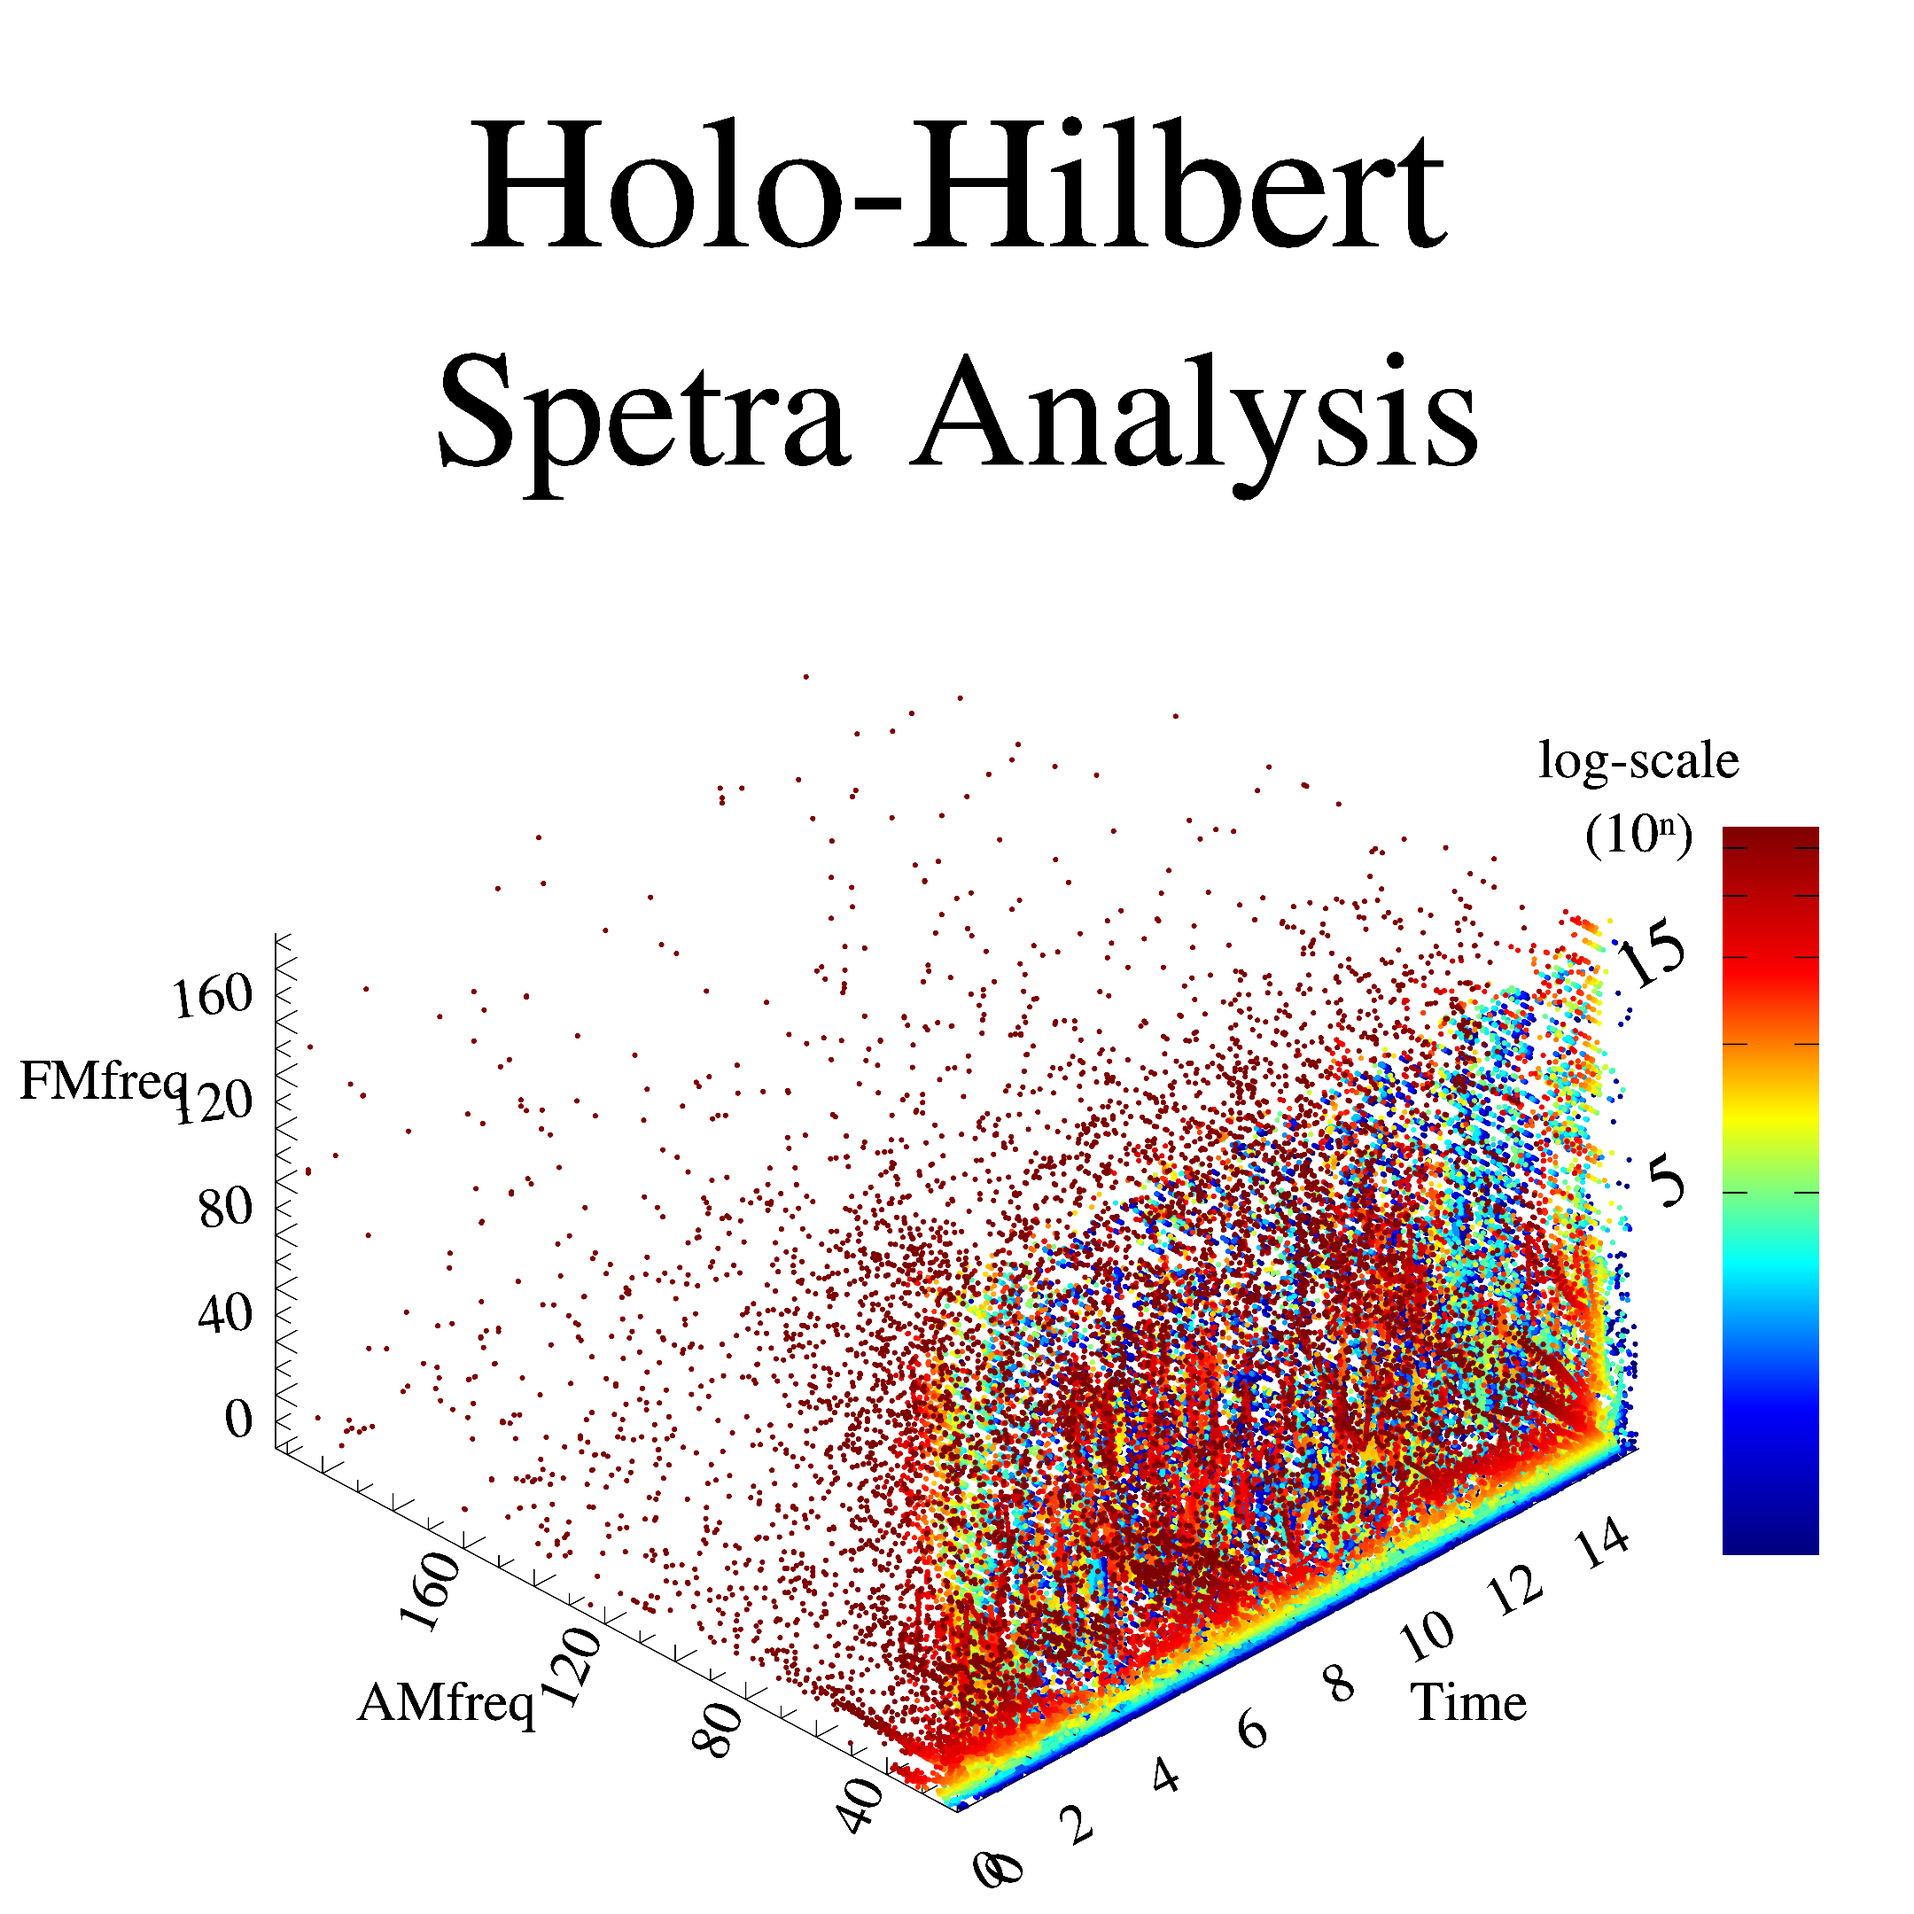
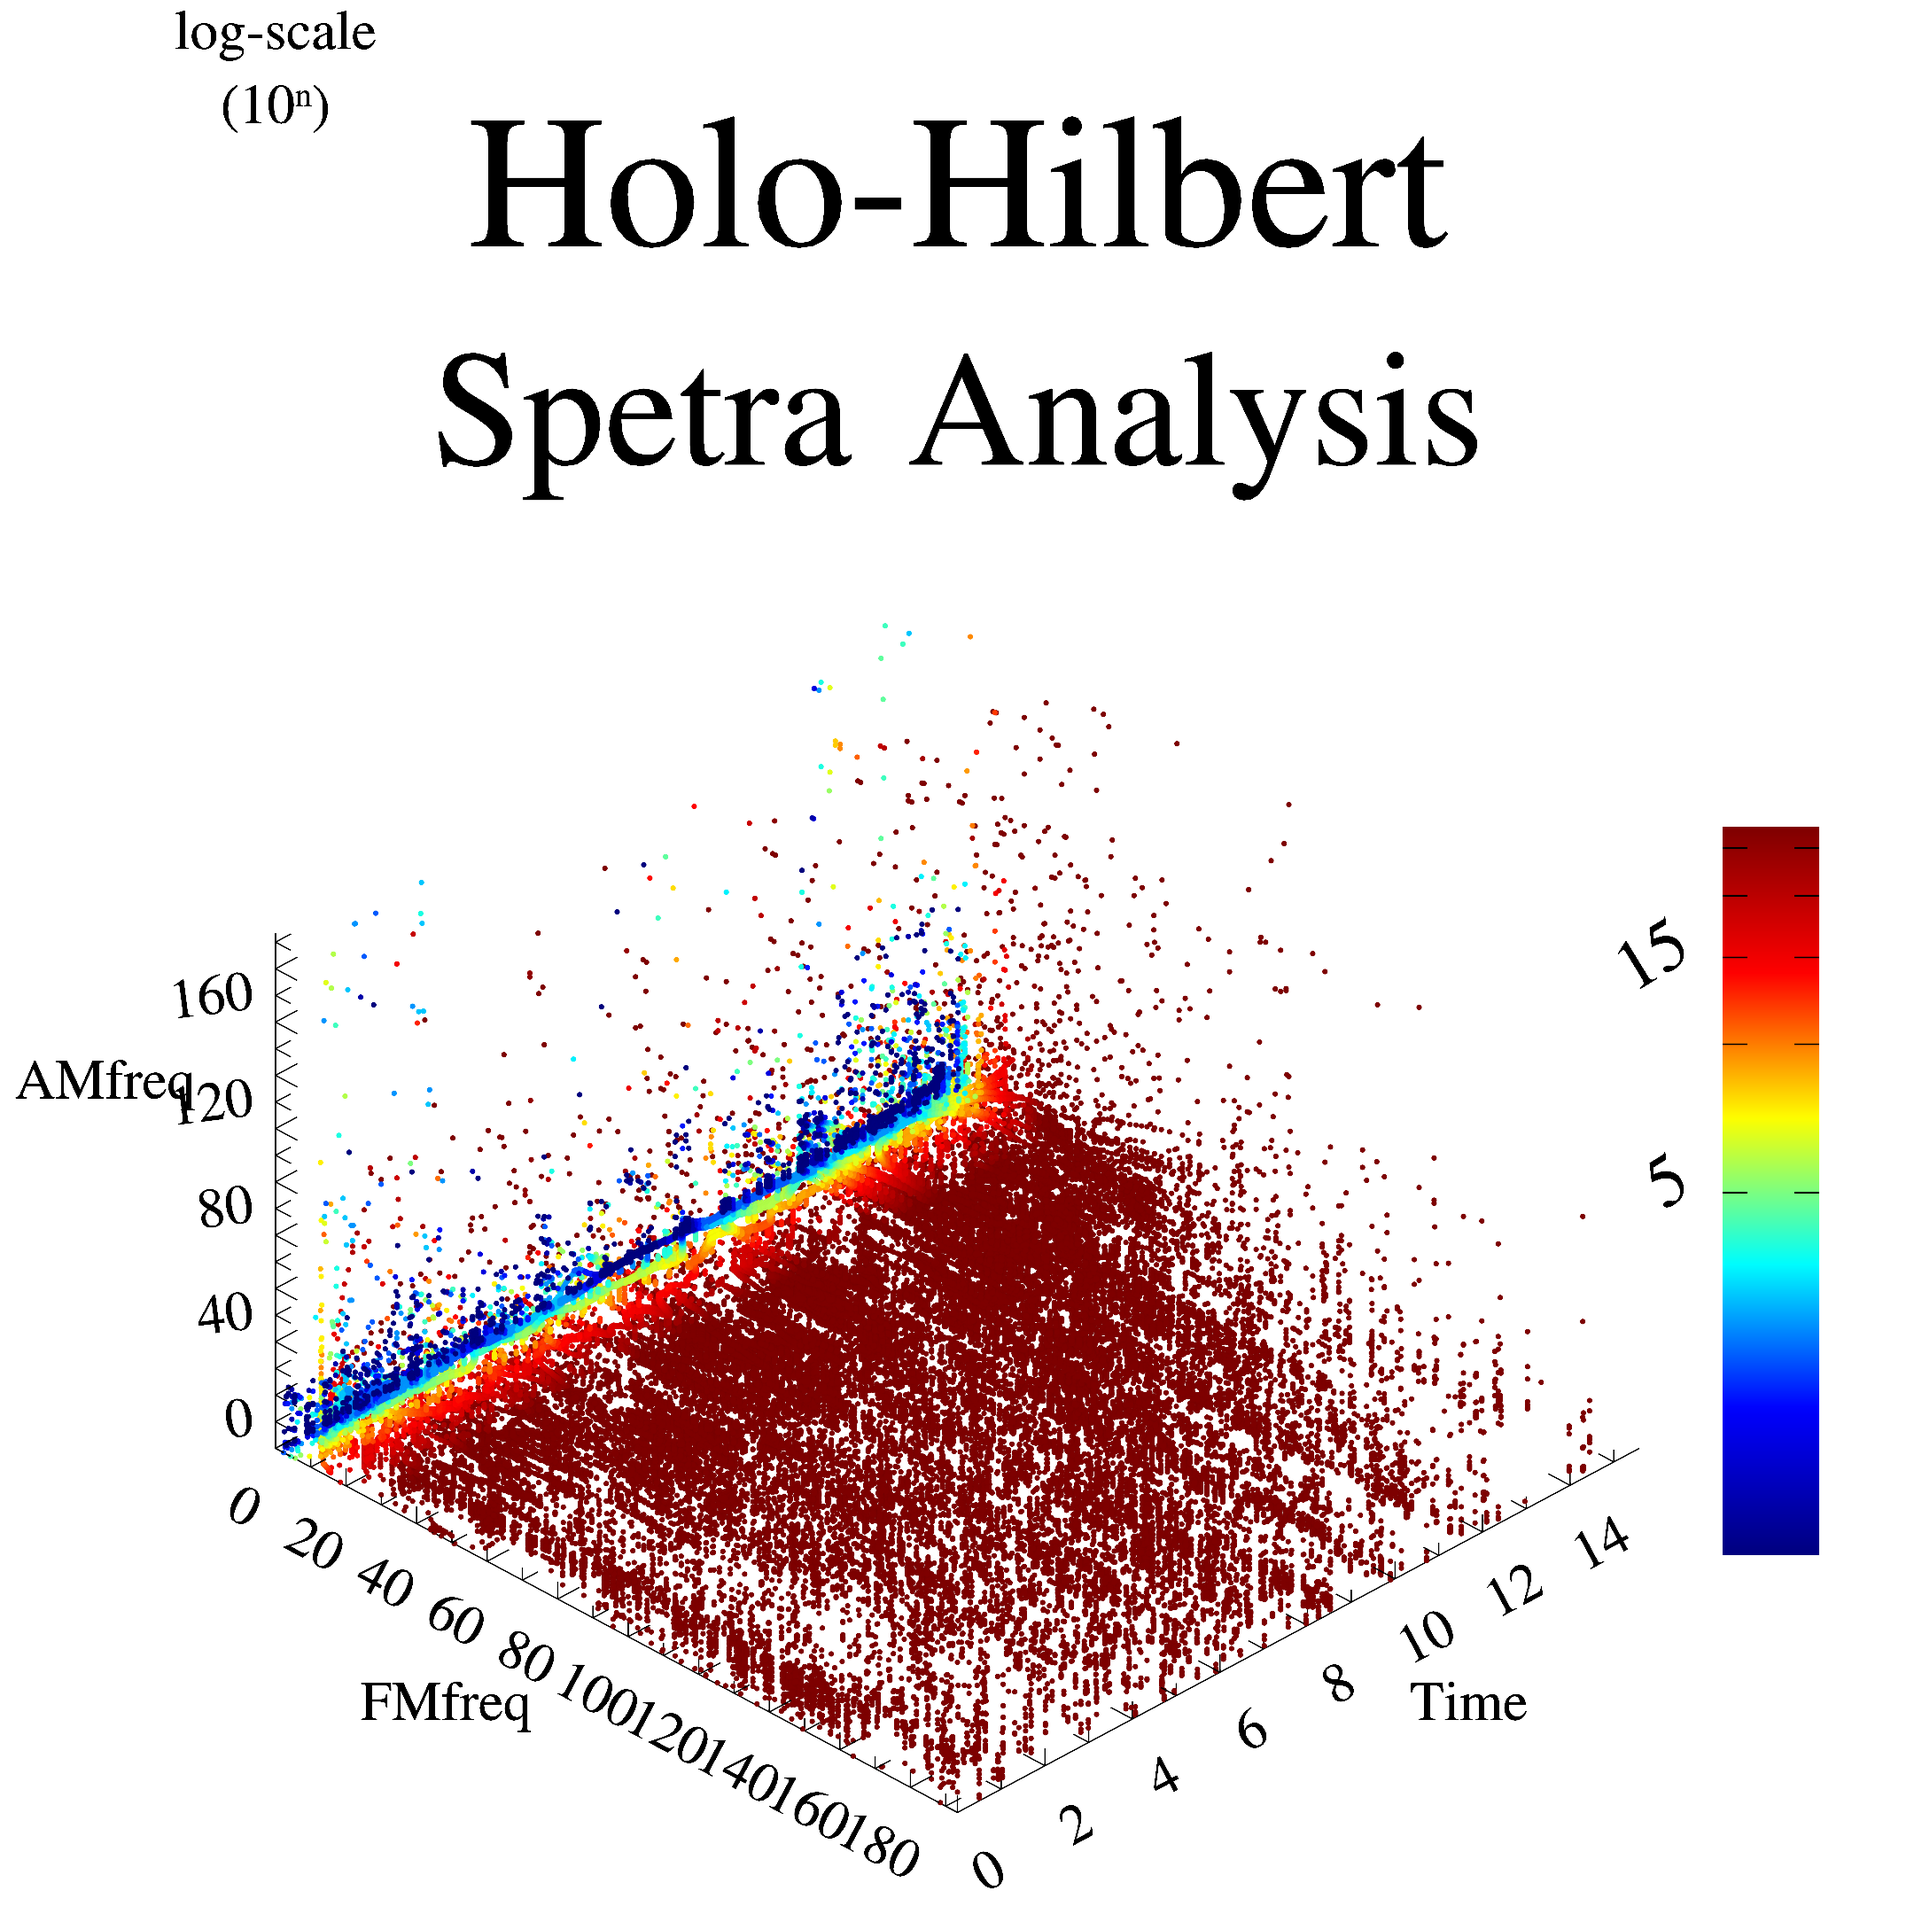
update HHSA 3D image generate code

diff --git a/HHSA_CPU_OpenMP/HHSA_CPU_OpenMP.cpp b/HHSA_CPU_OpenMP/HHSA_CPU_OpenMP.cpp
@@ -1232,8 +1232,8 @@ int main(int argc, char* argv[]) {
 				//HHSA_3D_map[ k * Freq_cell* Holo_Freq_cell + j* Holo_Freq_cell + i] = hhsa_map[k][j][i] + 0.00000001;
 				if (hhsa_map[k][j][i] > HHSA_threshold) {
 					HHSA_3D_x[index] = k * HHSA_dt;
-					HHSA_3D_y[index] = j * HHSA_dFMf;
-					HHSA_3D_z[index] = i * HHSA_dAMf;
+					HHSA_3D_y[index] = i * HHSA_dAMf;
+					HHSA_3D_z[index] = j * HHSA_dFMf;
 					HHSA_3D_a[index++] = hhsa_map[k][j][i];
 				}
 			}
@@ -1256,8 +1256,8 @@ int main(int argc, char* argv[]) {
 	//HHSA_gr.Alpha(true);
 	//HHSA_gr.SetAlphaDef(0.7);
 	HHSA_gr.SetRange('x',0.0,max_time);
-	HHSA_gr.SetRange('y',0.0,max_FM_frequency);
-	HHSA_gr.SetRange('z',0.0,max_AM_frequency);
+	HHSA_gr.SetRange('y',0.0,max_AM_frequency);
+	HHSA_gr.SetRange('z',max_FM_frequency,0.0);
 	//HHSA_gr.SetRange('x',0.0, Time_cell);
 	//HHSA_gr.SetRange('y',0.0, Freq_cell);
 	//HHSA_gr.SetRange('z',0.0, Holo_Freq_cell);
@@ -1273,10 +1273,10 @@ int main(int argc, char* argv[]) {
 	//HHSA_gr.Puts(mglPoint(Time_cell*0.5, 0, -Holo_Freq_cell*0.25), "Time");
 	//HHSA_gr.Puts(mglPoint(0, Freq_cell*0.5, Holo_Freq_cell*1.25), "FMfreq");
 	//HHSA_gr.Puts(mglPoint(-Time_cell * 0.25, 0, Holo_Freq_cell * 0.5), "AMfreq");
-	HHSA_gr.Puts(mglPoint(max_time, max_FM_frequency * 1.3, 0), "log-scale\n(10^n)");
-	HHSA_gr.Puts(mglPoint(max_time * 0.5, 0, -max_AM_frequency * 0.25), "Time");
-	HHSA_gr.Puts(mglPoint(0, max_FM_frequency * 0.5, max_AM_frequency * 1.25), "FMfreq");
-	HHSA_gr.Puts(mglPoint(-max_time * 0.25, 0, max_AM_frequency * 0.5), "AMfreq");
+	HHSA_gr.Puts(mglPoint(max_time, max_AM_frequency * 1.3, -max_FM_frequency), "log-scale\n(10^n)");
+	HHSA_gr.Puts(mglPoint(max_time * 0.5, 0, max_FM_frequency * 1.25), "Time");
+	HHSA_gr.Puts(mglPoint(0, max_AM_frequency * 0.5, -max_FM_frequency * 0.25), "AMfreq");
+	HHSA_gr.Puts(mglPoint(-max_time * 0.25, 0, max_FM_frequency * 0.5), "FMfreq");
 	HHSA_gr.Axis();
 
 	HHSA_gr.WriteFrame(OutputFileName);
